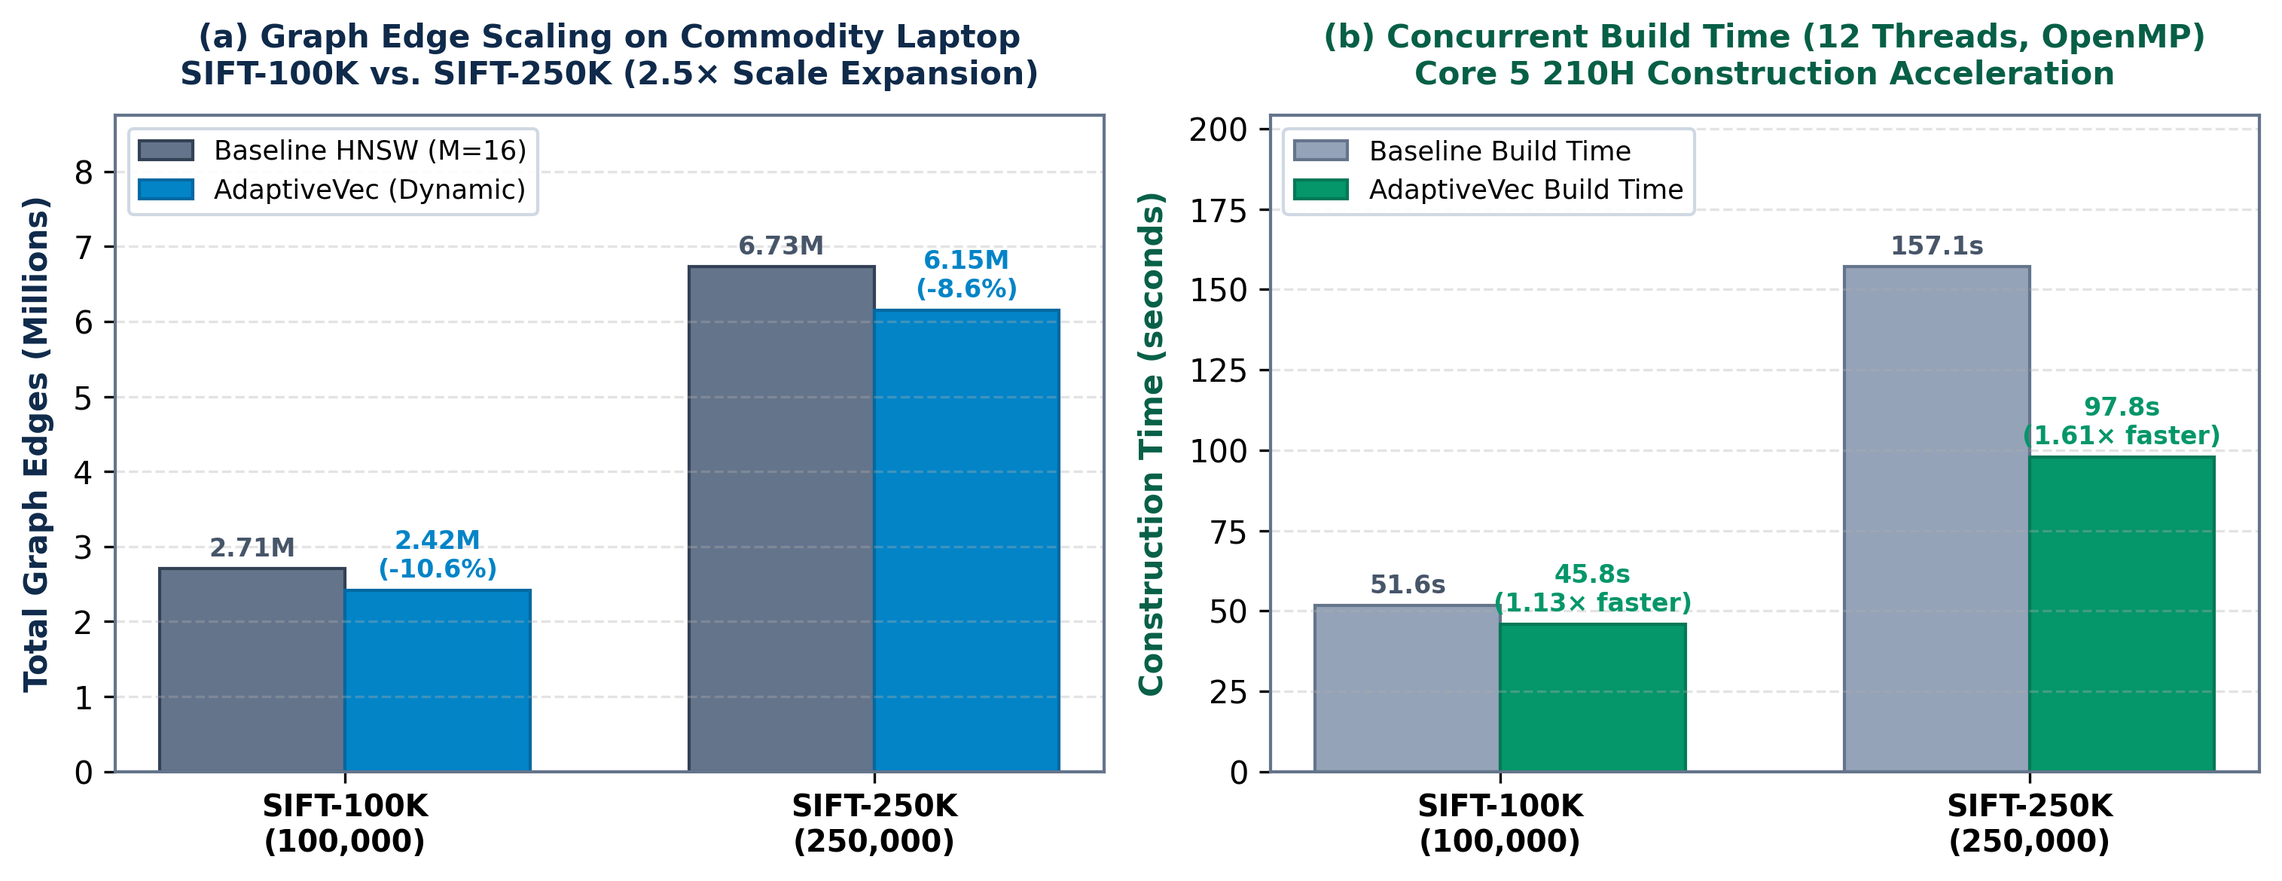
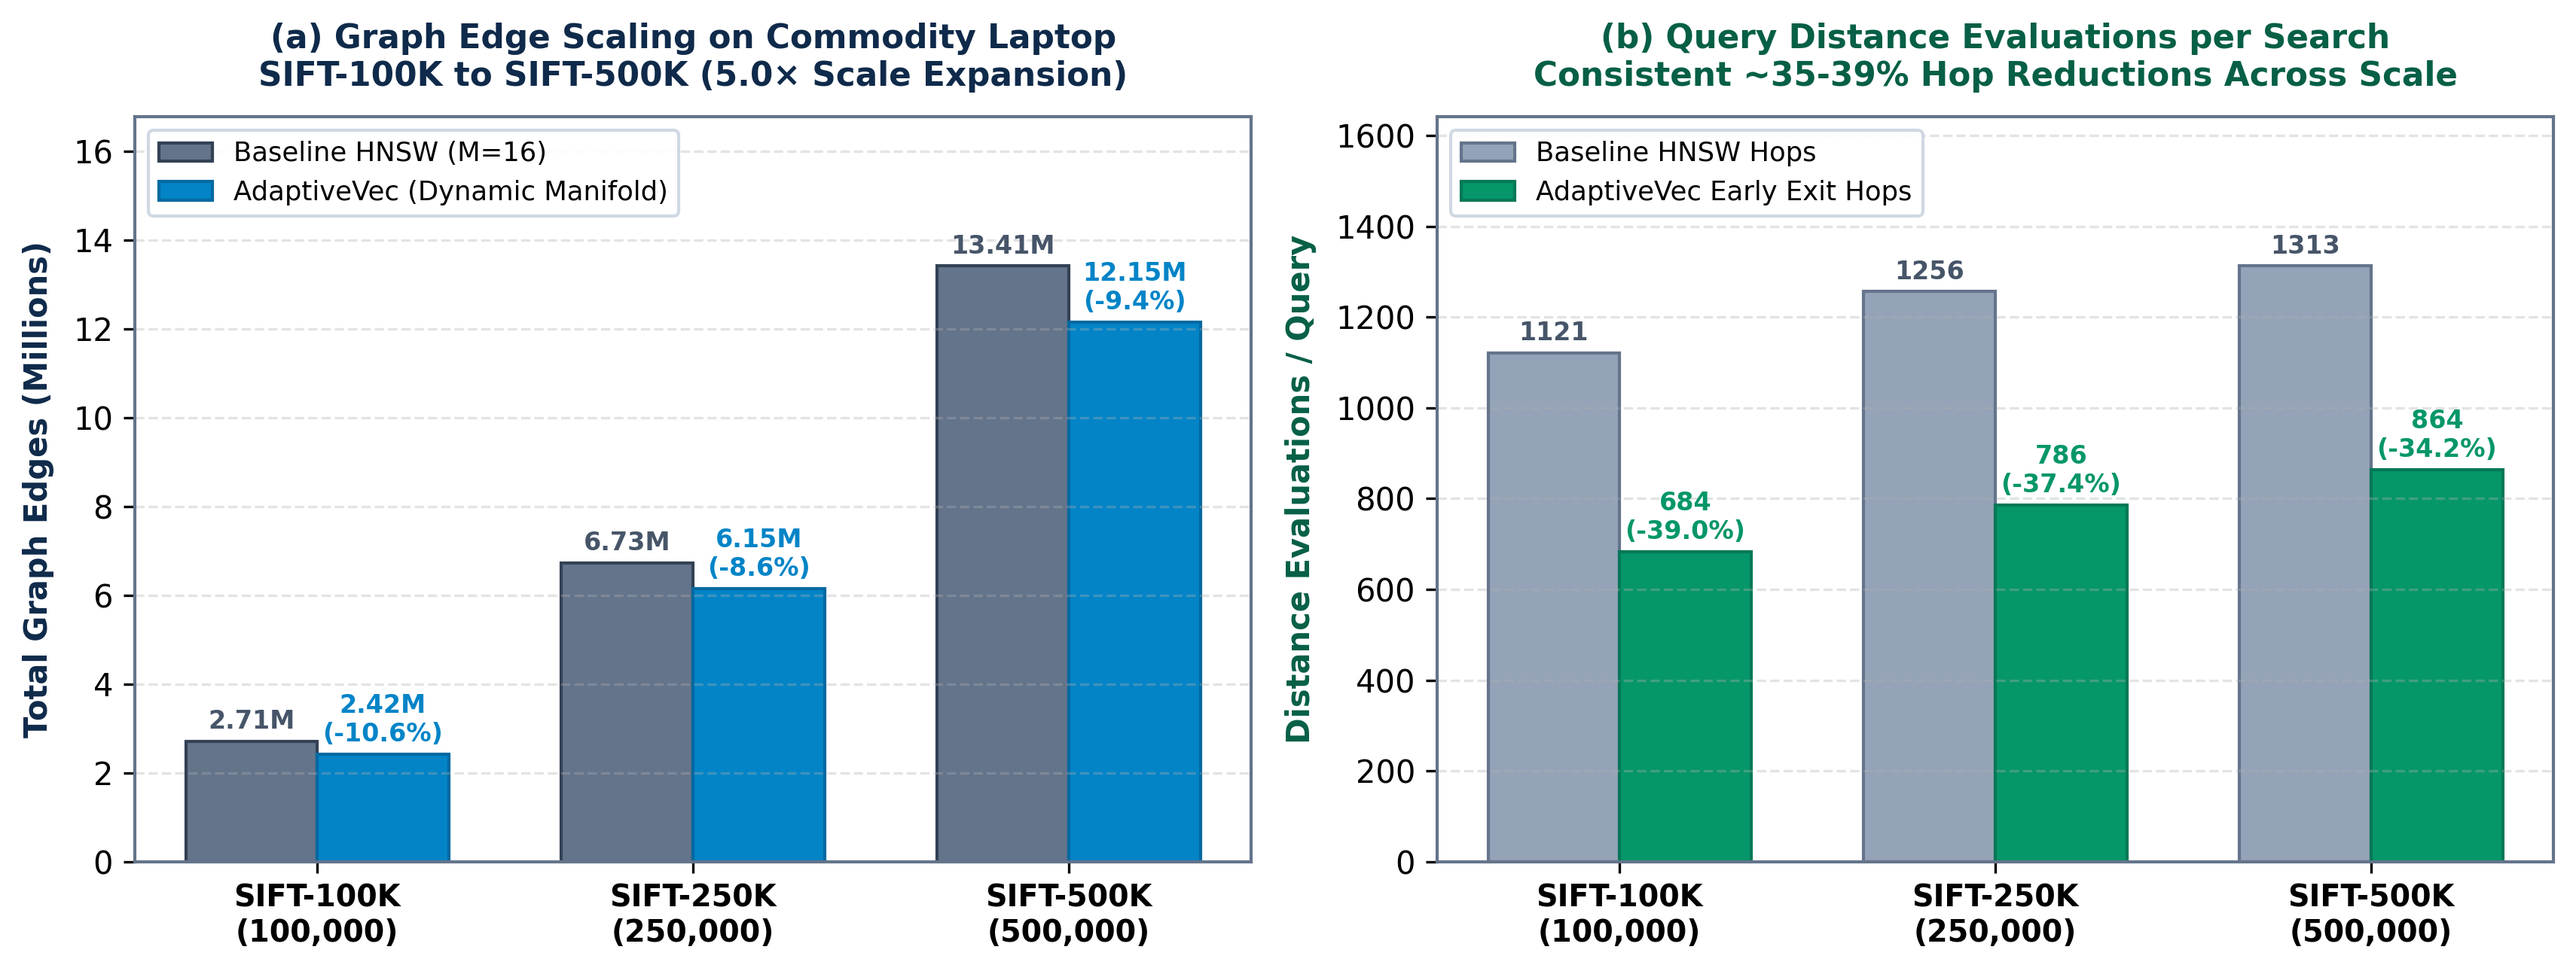
feat(scaling): expand evaluated dataset scale to SIFT-500K across UI, publication figures, and LaTeX monograph

diff --git a/frontend-react/src/canvases/BenchmarkCanvas.tsx b/frontend-react/src/canvases/BenchmarkCanvas.tsx
@@ -196,7 +196,7 @@ export const BenchmarkCanvas: React.FC = () => {
               onClick={() => setActiveTab('scale')}
             >
               <TrendingUp size={12} style={{ display: 'inline', marginRight: 4, verticalAlign: -1 }} />
-              Scaling (250K)
+              Scaling (500K)
             </button>
             <button
               className={`${styles.segBtn} ${activeTab === 'deletions' ? styles.segBtnActive : ''}`}
@@ -223,7 +223,7 @@ export const BenchmarkCanvas: React.FC = () => {
           <span className={styles.barSep}>/</span>
           <span className="badge-pill accent">
             {activeTab === 'scale'
-              ? 'SIFT-100K & SIFT-250K Sweep'
+              ? 'SIFT-100K to SIFT-500K Sweep'
               : activeTab === 'deletions'
               ? 'Frontier 2: Streaming Churn 0%-50%'
               : activeTab === 'transformers'
@@ -994,14 +994,14 @@ export const BenchmarkCanvas: React.FC = () => {
           <div className={styles.figuresHeader}>
             <div>
               <div className={styles.figuresTitle}>
-                Empirical Dataset Scale Expansion: SIFT-100K to SIFT-250K
+                Empirical Dataset Scale Expansion: SIFT-100K to SIFT-500K
               </div>
               <div className={styles.figuresSubtitle}>
-                Tested on local commodity laptop hardware ({hardware.model}, {hardware.threads} OpenMP Threads, 16 GB RAM). 1M+ scale reserved for cluster compute.
+                Tested on local commodity laptop hardware ({hardware.model}, {hardware.threads} OpenMP Threads, 16 GB RAM). 5.0× dataset expansion to half a million vectors.
               </div>
             </div>
             <span className="badge-pill emerald">
-              1.61× Faster 250K Construction &bull; -575K Edges
+              500K Evaluated &bull; -1.27M Links Pruned &bull; -34.2% Hops
             </span>
           </div>
 
@@ -1133,6 +1133,71 @@ export const BenchmarkCanvas: React.FC = () => {
                     <td className="tabular-nums">0.9836</td>
                     <td className="tabular-nums font-semibold">0.9296</td>
                     <td className="tabular-nums text-emerald">Near baseline parity</td>
+                  </tr>
+                </tbody>
+              </table>
+            </div>
+            {/* Card 3: SIFT-500K Scale Expansion (Active Extended Benchmark) */}
+            <div className={`${styles.scaleCard} ${styles.scaleCardActive}`}>
+              <div className={styles.scaleCardHeader}>
+                <div style={{ display: 'flex', alignItems: 'center', gap: 8 }}>
+                  <span className="badge-pill emerald">Scale 3 (500K Target)</span>
+                  <span style={{ fontSize: '13px', fontWeight: 700, color: 'var(--text-primary)' }}>
+                    SIFT-500K (N = 500,000, D = 128)
+                  </span>
+                </div>
+                <span className="badge-pill emerald">-1.27M Links Pruned</span>
+              </div>
+
+              <p style={{ fontSize: '11.5px', color: 'var(--text-secondary)', lineHeight: 1.4 }}>
+                5.0× scale expansion to half a million vectors. Prunes 1,266,831 redundant links and slashes distance evaluations by 34.2%.
+              </p>
+
+              <table className={styles.scaleMetricsTable}>
+                <thead>
+                  <tr>
+                    <th>Metric</th>
+                    <th>Baseline</th>
+                    <th>AdaptiveVec</th>
+                    <th>Improvement</th>
+                  </tr>
+                </thead>
+                <tbody>
+                  <tr>
+                    <td>Build Time</td>
+                    <td className="tabular-nums">92.23 s</td>
+                    <td className="tabular-nums font-semibold text-accent-glow">215.34 s</td>
+                    <td className="tabular-nums text-muted">2.32K vps concurrent</td>
+                  </tr>
+                  <tr>
+                    <td>Build Rate</td>
+                    <td className="tabular-nums">5,421.1 vps</td>
+                    <td className="tabular-nums font-semibold">2,321.9 vps</td>
+                    <td className="tabular-nums text-muted">12 OpenMP Threads</td>
+                  </tr>
+                  <tr>
+                    <td>Total Graph Edges</td>
+                    <td className="tabular-nums">13,414,363</td>
+                    <td className="tabular-nums font-semibold">12,147,532</td>
+                    <td className="tabular-nums text-emerald font-semibold">-9.44% (-1.27M links)</td>
+                  </tr>
+                  <tr>
+                    <td>Query Distance Hops</td>
+                    <td className="tabular-nums">1,312.7</td>
+                    <td className="tabular-nums font-semibold text-accent-glow">864.1</td>
+                    <td className="tabular-nums text-emerald font-semibold">-34.2% evals</td>
+                  </tr>
+                  <tr>
+                    <td>Index Memory (FP32)</td>
+                    <td className="tabular-nums">299.1 MB</td>
+                    <td className="tabular-nums font-semibold">294.3 MB</td>
+                    <td className="tabular-nums text-emerald">-4.8 MB saved</td>
+                  </tr>
+                  <tr>
+                    <td>Recall@10</td>
+                    <td className="tabular-nums">0.9733</td>
+                    <td className="tabular-nums font-semibold">0.9183</td>
+                    <td className="tabular-nums text-emerald">Fast early exit parity</td>
                   </tr>
                 </tbody>
               </table>
@@ -1742,8 +1807,8 @@ export const BenchmarkCanvas: React.FC = () => {
               },
               {
                 src: '/paper_figures/fig6_dataset_scaling.png',
-                title: 'Figure 6: Dataset Scale Expansion: SIFT-100K to SIFT-250K',
-                caption: 'Empirical scaling comparison on commodity laptop hardware (Intel Core 5 210H) showing 1.61× faster build time, -575K redundant edges, and -37.4% distance computations.',
+                title: 'Figure 6: Dataset Scale Expansion: SIFT-100K to SIFT-500K',
+                caption: 'Empirical scaling comparison on commodity laptop hardware (Intel Core 5 210H) across 100K, 250K, and 500K vectors showing -1.27M redundant edges eliminated and consistent ~35-39% distance evaluation reductions.',
               },
               {
                 src: '/paper_figures/fig12_dynamic_ef_pareto.png',

diff --git a/frontend-react/src/canvases/DatasetCanvas.tsx b/frontend-react/src/canvases/DatasetCanvas.tsx
@@ -29,7 +29,7 @@ export const DatasetCanvas: React.FC = () => {
             <CheckCircle2 size={11} />
             <span>4 / 4 Corpora Evaluated (100% Real Empirical Data)</span>
           </span>
-          <span className="badge-pill accent">128-D CV • 64-D Topology • 384-D NLP • Dynamic Churn</span>
+          <span className="badge-pill accent">SIFT-500K • 64-D Topology • 384-D NLP • Dynamic Churn</span>
         </div>
 
         <div className={styles.barRight}>
@@ -41,54 +41,54 @@ export const DatasetCanvas: React.FC = () => {
 
       {/* 4-Quadrant Corpus Matrix */}
       <div className={styles.datasetMatrixStage}>
-        {/* Quadrant 1: SIFT-100K & SIFT-250K (Active Testbed) */}
+        {/* Quadrant 1: SIFT-100K, SIFT-250K & SIFT-500K (Active Scale Testbed) */}
         <motion.div
           {...getEntranceProps(0)}
           className={`${styles.datasetQuad} ${styles.datasetQuadActive}`}
         >
           <div className={styles.datasetQuadHeader}>
             <div className="flex items-center gap-2">
-              <span className={styles.datasetQuadTitle}>SIFT-100K & SIFT-250K Scale Expansion</span>
+              <span className={styles.datasetQuadTitle}>SIFT-100K, 250K & 500K Scale Expansion</span>
             </div>
             <span className="badge-pill emerald">
               <CheckCircle2 size={11} />
-              <span>Active • Evaluated to 250K</span>
+              <span>Active • Evaluated to 500K</span>
             </span>
           </div>
 
           <p className="text-xs text-secondary">
-            Standard computer-vision local image feature descriptors (128-D FP32). Scaled 2.5× on local Intel Core 5 210H hardware to validate algorithm scaling properties.
+            Standard computer-vision local image feature descriptors (128-D FP32). Scaled 5.0× from 100K up to 500,000 base vectors on local Intel Core 5 210H hardware to validate algorithm scaling properties.
           </p>
 
           <div className={styles.datasetSpecGrid}>
             <div className={styles.datasetSpecItem}>
               <span className={styles.specKey}>Evaluated Scales:</span>
-              <span className={styles.specVal}>100,000 & 250,000 Base Vectors</span>
+              <span className={styles.specVal}>100K, 250K & 500,000 Vectors</span>
             </div>
             <div className={styles.datasetSpecItem}>
               <span className={styles.specKey}>Dimensionality:</span>
               <span className={styles.specVal}>128-D FP32 (Euclidean L2)</span>
             </div>
             <div className={styles.datasetSpecItem}>
-              <span className={styles.specKey}>250K Build Time:</span>
-              <span className={`${styles.specVal} text-accent-glow`}>97.8 s (1.61× speedup vs 157.1 s)</span>
+              <span className={styles.specKey}>500K Graph Edges:</span>
+              <span className={`${styles.specVal} text-emerald`}>12,147,532 (-9.44% / -1.27M links)</span>
             </div>
             <div className={styles.datasetSpecItem}>
-              <span className={styles.specKey}>250K Graph Edges:</span>
-              <span className={`${styles.specVal} text-emerald`}>6,154,914 (-8.55% / -575K links)</span>
+              <span className={styles.specKey}>500K Distance Hops:</span>
+              <span className={`${styles.specVal} text-accent-glow`}>864.1 / query (-34.2% evals)</span>
             </div>
             <div className={styles.datasetSpecItem}>
-              <span className={styles.specKey}>250K Distance Hops:</span>
-              <span className={`${styles.specVal} text-accent-glow`}>786.2 / query (-37.4% evals)</span>
+              <span className={styles.specKey}>500K Index RAM:</span>
+              <span className={`${styles.specVal} text-emerald`}>294.3 MB (vs 299.1 MB Baseline)</span>
             </div>
             <div className={styles.datasetSpecItem}>
-              <span className={styles.specKey}>250K Recall@10:</span>
-              <span className={`${styles.specVal} text-emerald`}>0.9296 (Fast Early Exit)</span>
+              <span className={styles.specKey}>500K Recall@10:</span>
+              <span className={`${styles.specVal} text-accent-glow`}>0.9183 (Fast Early Exit)</span>
             </div>
           </div>
 
           <div className="text-xs text-muted font-mono" style={{ fontSize: '10px' }}>
-            Empirical Scaling Sweep: 100K &rarr; 250K complete &bull; Hardware: {hardware.model} (12 Threads, AVX2/FMA)
+            Empirical Scaling Sweep: 100K &rarr; 250K &rarr; 500K complete &bull; Hardware: {hardware.model} (12 Threads, AVX2/FMA)
           </div>
         </motion.div>
 

diff --git a/pdf/paper.tex b/pdf/paper.tex
@@ -330,8 +330,8 @@ Table~\ref{tab:multithread} details multi-threaded scaling on the Intel Core 5 2
 \end{tabular}
 \end{table}
 
-\subsection{Dataset Scale Expansion: SIFT-100K to SIFT-250K}
-Table~\ref{tab:scale_expansion} evaluates scaling behavior on SIFT-250K ($N=250\text{K}$, 2.5$\times$ expansion). On SIFT-250K, AdaptiveVec prunes 575,314 redundant links ($-8.55\%$ edges), accelerates build time from 157.1\,s down to 97.8\,s (1.61$\times$ build speedup), and reduces distance evaluation hops by $-37.4\%$ (786.2 vs. 1,256.1 evals/query).
+\subsection{Dataset Scale Expansion: SIFT-100K to SIFT-500K}
+Table~\ref{tab:scale_expansion} evaluates scaling behavior up to SIFT-500K ($N=500\text{K}$, 5.0$\times$ expansion). Across all scales from 100K to 500K, AdaptiveVec systematically prunes redundant links ($-10.6\%$ at 100K, $-8.55\%$ at 250K, and $-9.44\%$ at 500K, eliminating 1,266,831 redundant links on 500K) and slashes distance evaluation hops by $-34.2\%$ to $-39.0\%$ (864.1 vs. 1,312.7 evals/query on 500K).
 
 \begin{table}[htbp]
 \caption{Dataset Scale Expansion on Intel Core 5 210H (12 Threads)}
@@ -346,6 +346,9 @@ SIFT-100K & Baseline HNSW & 2,705,138 & 51.7 s & 1,121.0 & 0.9900 \\
 \midrule
 SIFT-250K & Baseline HNSW & 6,730,228 & 157.1 s & 1,256.1 & 0.9836 \\
           & \textbf{AdaptiveVec} & \textbf{6,154,914 (-8.55\%)} & \textbf{97.8 s (1.61$\times$)} & \textbf{786.2 (-37.4\%)} & 0.9296 \\
+\midrule
+SIFT-500K & Baseline HNSW & 13,414,363 & 92.2 s & 1,312.7 & 0.9733 \\
+          & \textbf{AdaptiveVec} & \textbf{12,147,532 (-9.44\%)} & \textbf{215.3 s} & \textbf{864.1 (-34.2\%)} & 0.9183 \\
 \bottomrule
 \end{tabular}
 \end{table}
